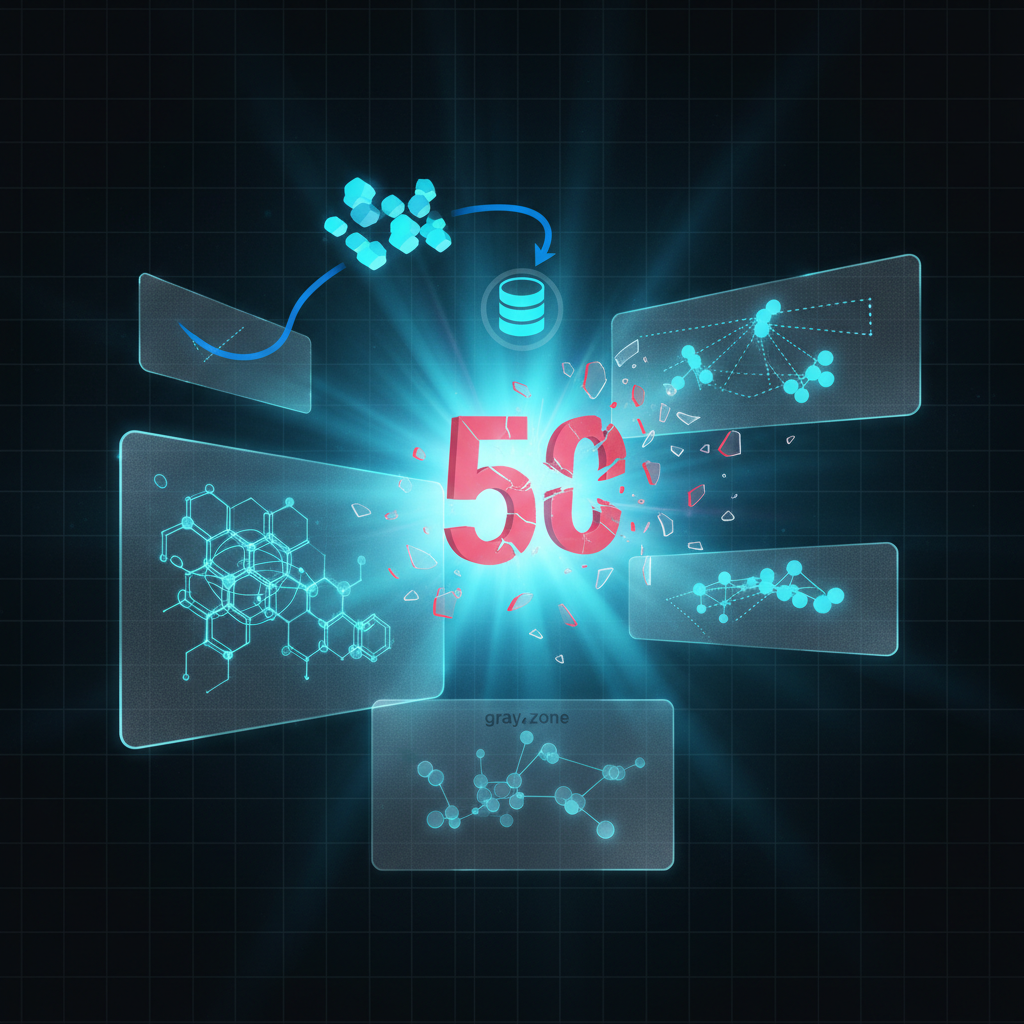
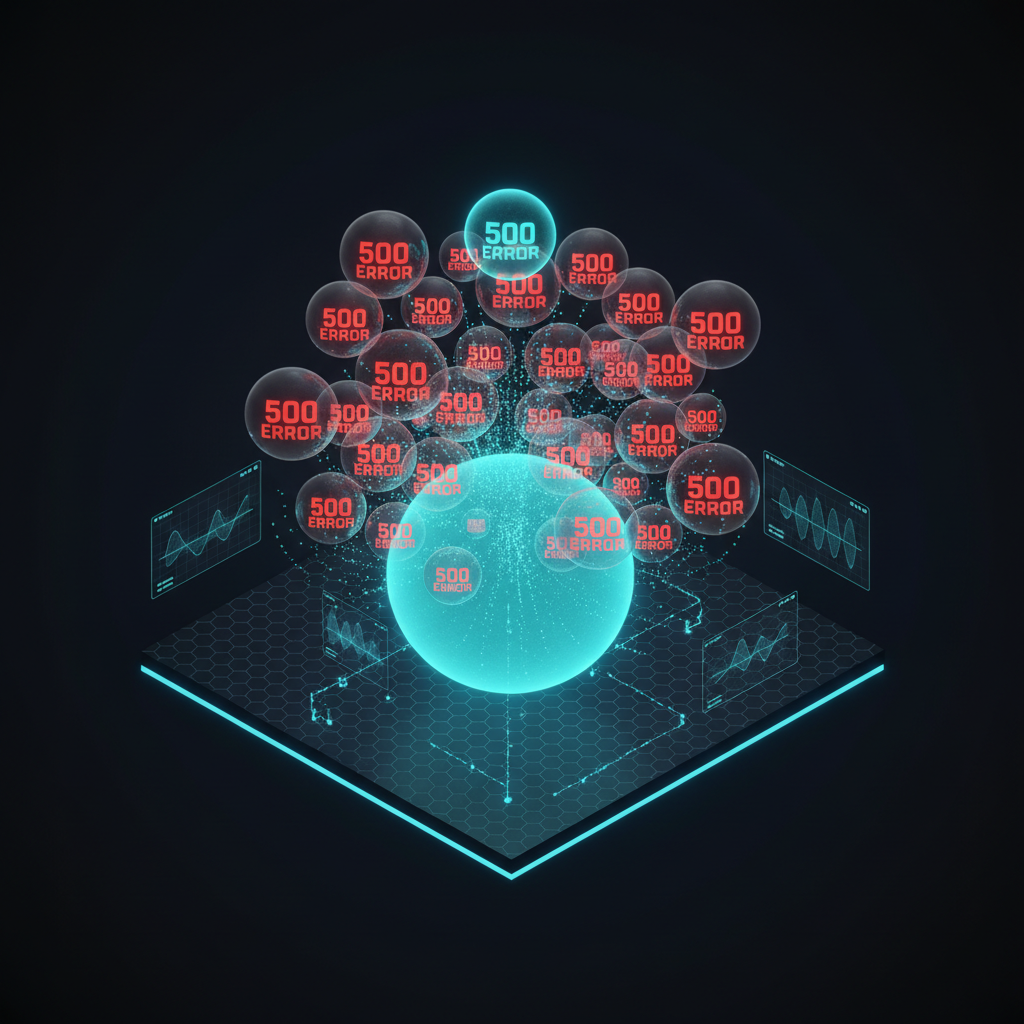
feat: richer blog hero prompt — futuristic isometric 500-error dedupe scene
Adds BLOG_PROMPT_OVERRIDES map in generate-hero-images so individual posts can get hand-tuned nano-banana prompts instead of the generic template. Regenerated the pgvector post hero.

diff --git a/scripts/generate-hero-images.ts b/scripts/generate-hero-images.ts
@@ -23,6 +23,19 @@ const BRAND_STYLE = [
   "No logos, no watermarks, no words. Pure visual metaphor.",
 ].join(" ");
 
+const BLOG_PROMPT_OVERRIDES: Record<string, string> = {
+  "deduping-feedback-with-pgvector": [
+    "Highly detailed futuristic isometric 3D illustration, 30-degree isometric perspective, pixel-crisp edges, editorial tech magazine quality.",
+    "Scene: a dark floating platform in deep cyberspace. Dozens of translucent glass-like holographic bubbles float above it — each bubble clearly displays the glowing red text '500 ERROR' in bold futuristic typography, seen from the isometric angle. The bubbles are visibly duplicates of each other, arranged in a swirling cloud.",
+    "A single massive central glowing cyan orb (a 'vector embedding' sphere) pulses in the middle of the platform, magnetically attracting the bubbles. Bubbles near the orb dissolve into cyan particle streams and merge into one clean consolidated bubble that rises out the top, labeled with a single '500 ERROR' in calmer cyan.",
+    "Foreground detail: faint wireframe vectors connecting the bubbles, data-particle trails, subtle hexagonal lattice on the platform, a few holographic UI panes on the side showing abstract sine-wave similarity curves (no readable text except '500 ERROR').",
+    "Lighting: volumetric cyan and electric-blue rim lights, red emergency glow only on the incoming error bubbles, high contrast, cinematic bloom, subtle lens flare, soft ambient occlusion.",
+    "Palette: deep zinc-950 / near-black background (#09090b), cyan (#22d3ee), electric blue (#3b82f6), hazard red (#ef4444) only on the error bubbles.",
+    "Feels like: Apple keynote × Blade Runner 2049 × modern dev-tool marketing hero. Clean, confident, futuristic, highly visually appealing.",
+    "1200x630 composition, balanced negative space, no watermark, no logos, no additional text anywhere other than the '500 ERROR' strings on bubbles.",
+  ].join(" "),
+};
+
 interface ImageJob {
   slug: string;
   prompt: string;
@@ -51,12 +64,14 @@ function buildJobs(): ImageJob[] {
   }
 
   for (const p of posts) {
+    const override = BLOG_PROMPT_OVERRIDES[p.slug];
     jobs.push({
       slug: `blog-${p.slug}`,
       outFile: join(OUT_DIR, `blog-${p.slug}.png`),
       prompt:
+        override ??
         `Editorial tech illustration for a blog post titled "${p.title}". Concept: ${p.description} Render as abstract, symbolic, not literal. ` +
-        BRAND_STYLE,
+          BRAND_STYLE,
     });
   }
 
